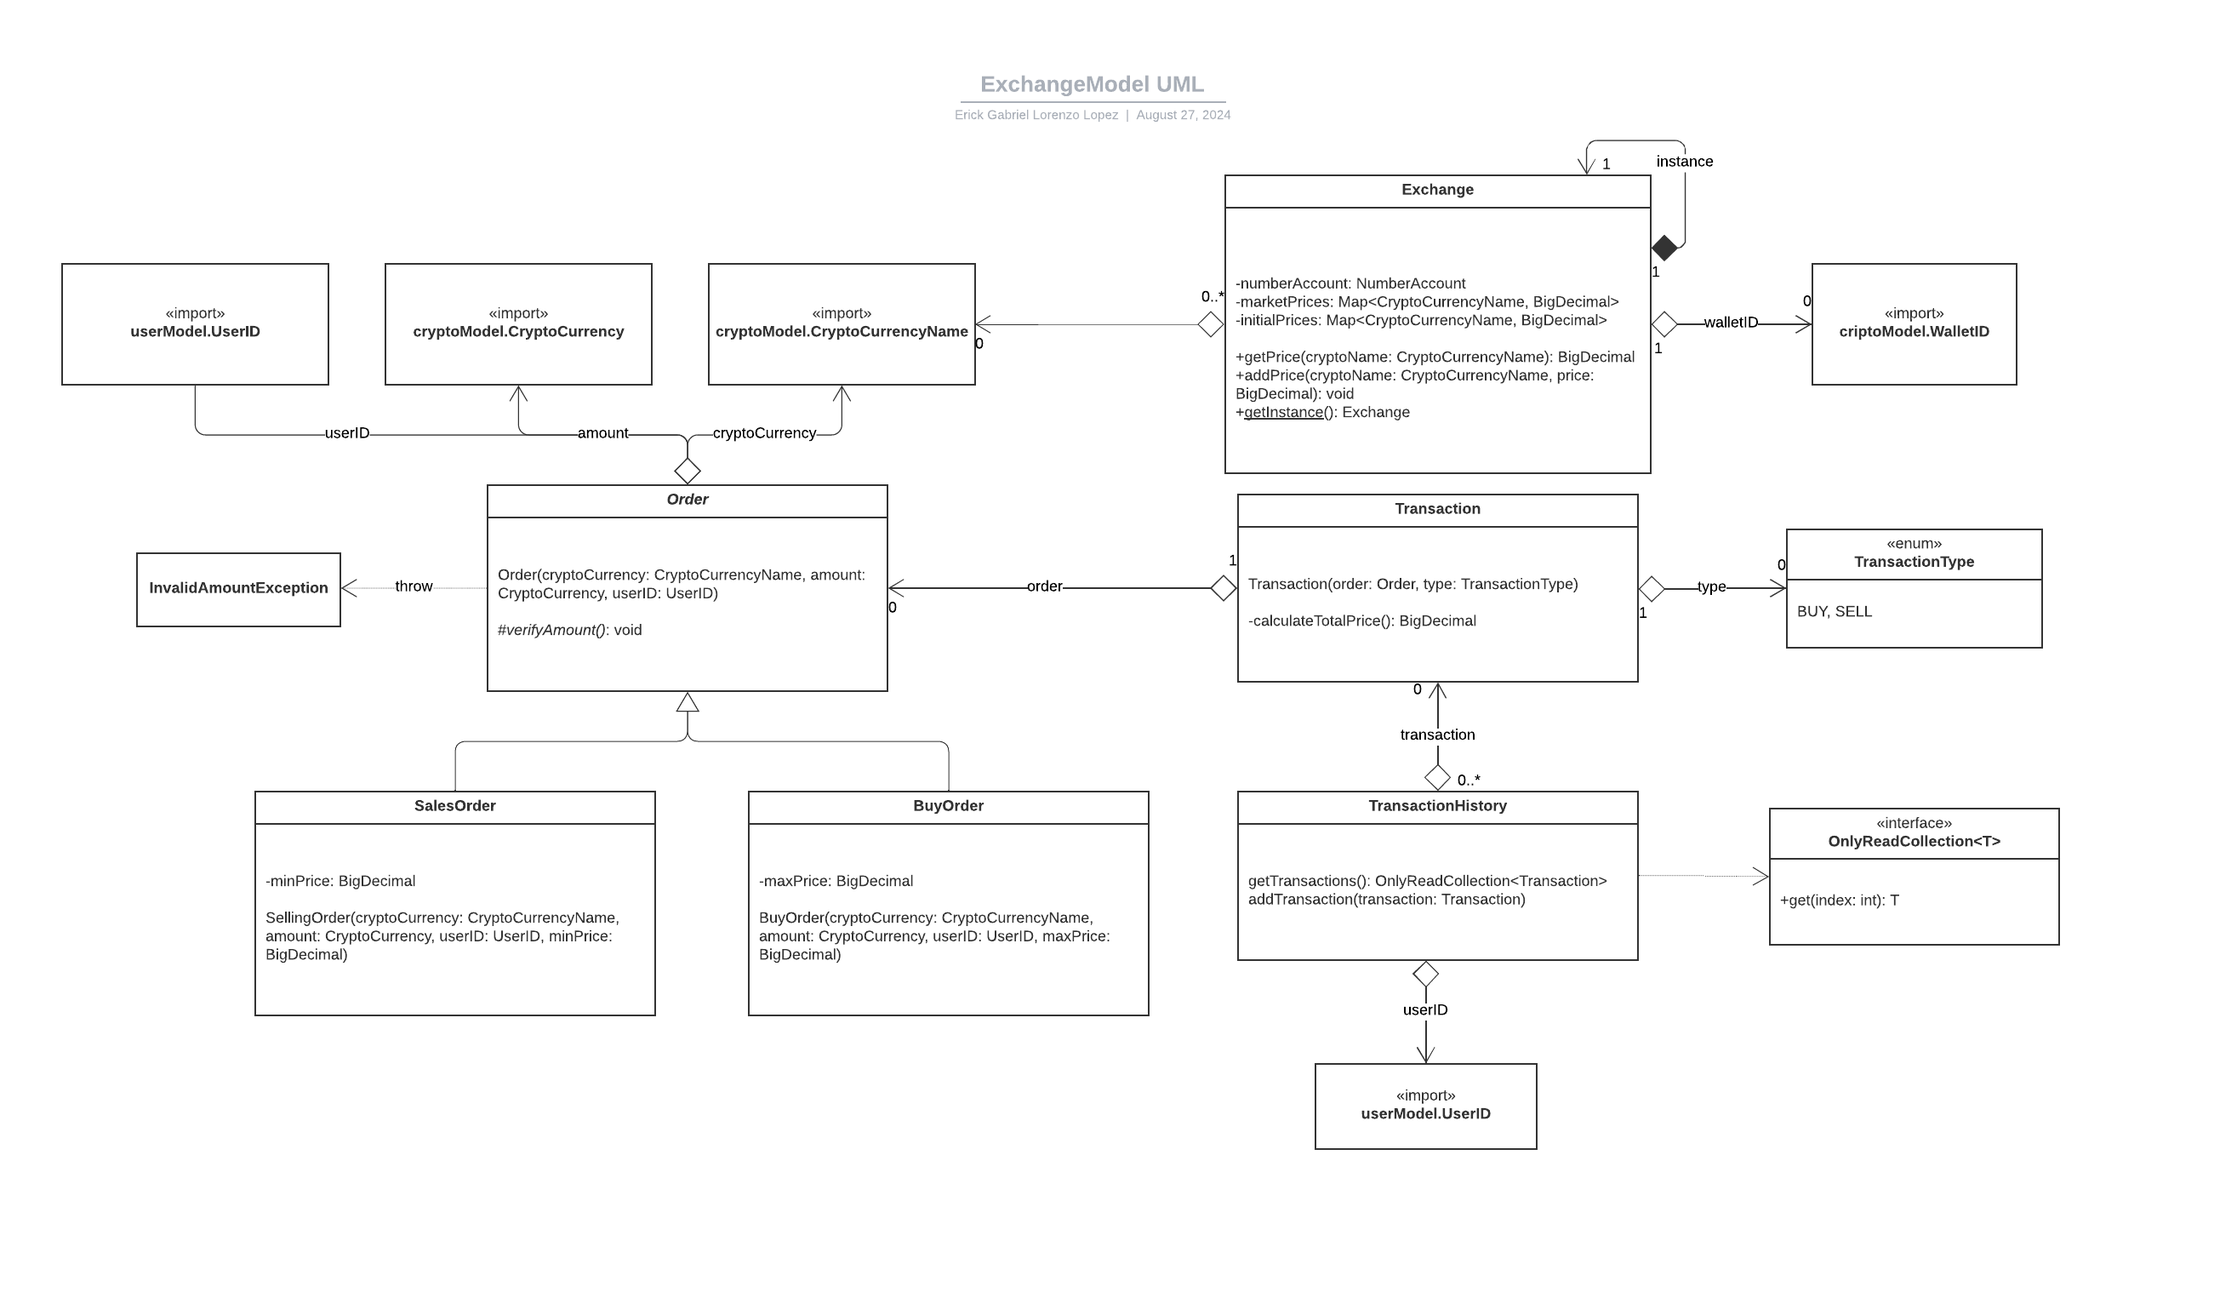
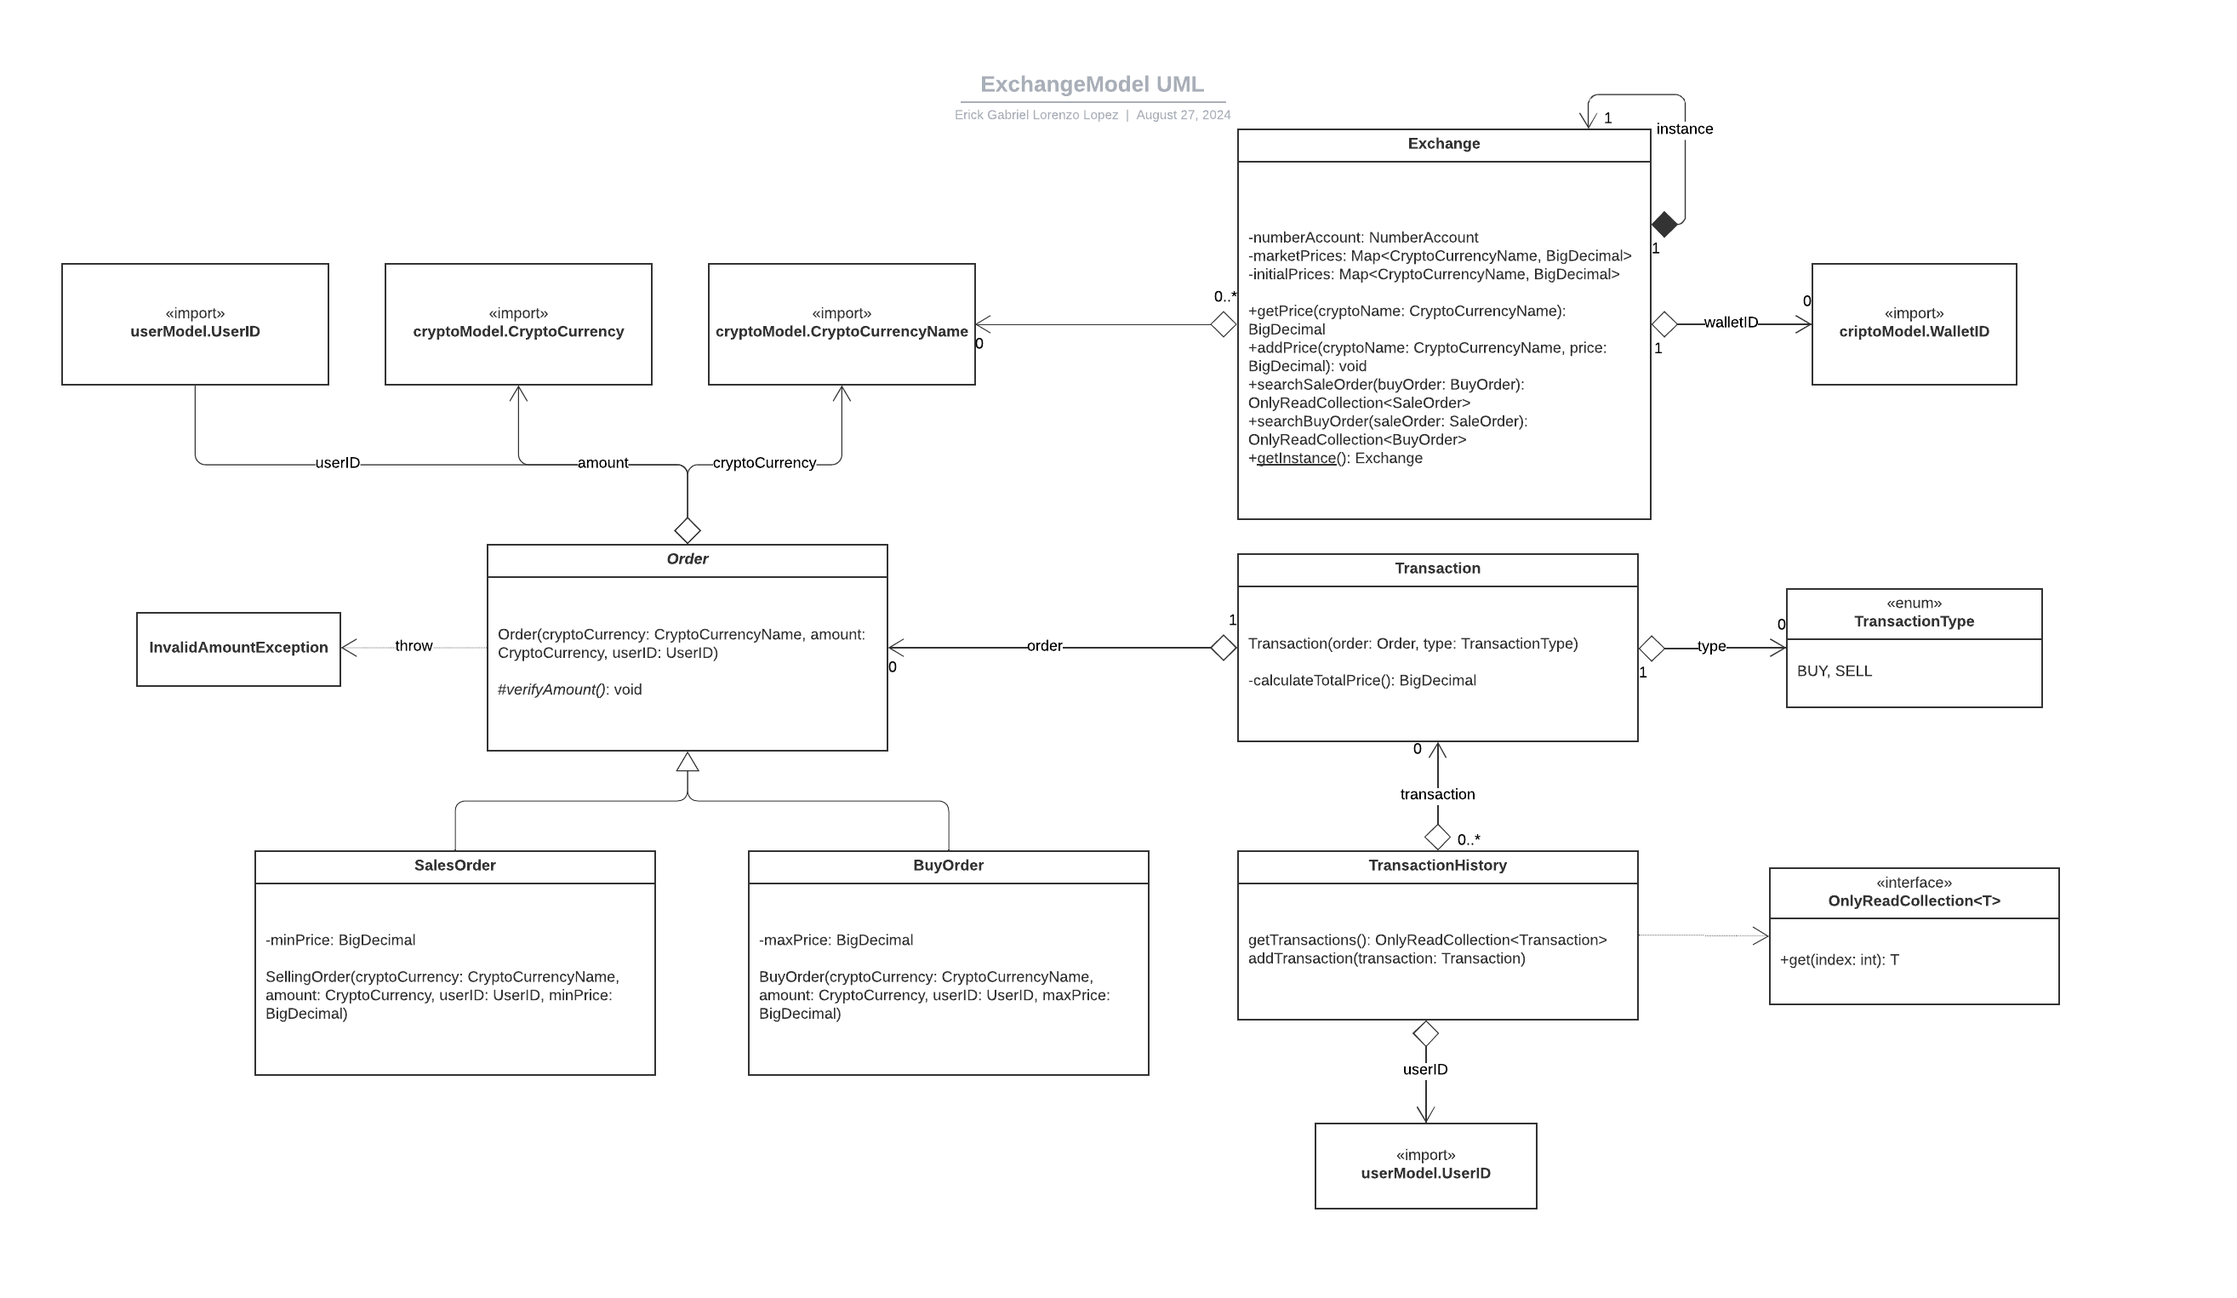
Added Exchange Service

diff --git a/criptoExchangeApplication/src/main/java/com/globant/application/services/exchange/PlaceBuyOrderUseCaseImpl.java b/criptoExchangeApplication/src/main/java/com/globant/application/services/exchange/PlaceBuyOrderUseCaseImpl.java
@@ -1,0 +1,83 @@
+package com.globant.application.services.exchange;
+
+import com.globant.application.dto.PlaceBuyOrderDTO;
+import com.globant.application.repositories.ExchangeInstance;
+import com.globant.application.repositories.Repository;
+import com.globant.application.repositories.UserRepository;
+import com.globant.application.services.wallet.BankTransactionExecuter;
+import com.globant.domain.crypto.Wallet;
+import com.globant.domain.crypto.WalletID;
+import com.globant.domain.exceptions.DomainException;
+import com.globant.domain.exceptions.NotFoundSalesOrderException;
+import com.globant.domain.exchange.BuyOrder;
+import com.globant.domain.exchange.Exchange;
+import com.globant.domain.exchange.SalesOrder;
+import com.globant.domain.exchange.Transaction;
+import com.globant.domain.exchange.TransactionHistory;
+import com.globant.domain.exchange.TransactionType;
+import com.globant.domain.user.BankAccount;
+import com.globant.domain.user.User;
+import com.globant.domain.user.UserID;
+import com.globant.domain.util.OnlyReadCollection;
+import java.math.BigDecimal;
+
+/**
+ *
+ * @author erillope
+ */
+public class PlaceBuyOrderUseCaseImpl implements PlaceBuyOrderUseCase{
+    private final UserRepository userRepository;
+    private final Repository<WalletID, Wallet> walletRepository;
+    private final Repository<String, BankAccount> bankRepository;
+    private final ExchangeInstance exchangeInstance;
+    private final Repository<UserID, TransactionHistory> transactionHistoryRepository;
+    private final BankTransactionExecuter transactionExecuter;
+
+    public PlaceBuyOrderUseCaseImpl(UserRepository userRepository, Repository<WalletID, Wallet> walletRepository, 
+            Repository<String, BankAccount> bankRepository, ExchangeInstance exchangeInstance, 
+            Repository<UserID, TransactionHistory> transactionHistoryRepository, BankTransactionExecuter transactionExecute) {
+        this.userRepository = userRepository;
+        this.walletRepository = walletRepository;
+        this.bankRepository = bankRepository;
+        this.exchangeInstance = exchangeInstance;
+        this.transactionHistoryRepository = transactionHistoryRepository;
+        this.transactionExecuter = transactionExecute;
+    }
+    
+    
+    @Override
+    public void placeBuyOrder(PlaceBuyOrderDTO dto) throws DomainException{
+        User user = userRepository.get(dto.getUserID());
+        BuyOrder buyOrder = user.generateBuyOrder(dto.getAmount(), dto.getCryptoName(), dto.getMaxPrice());
+        Exchange exchange = exchangeInstance.get();
+        OnlyReadCollection<SalesOrder> salesOrders = exchange.searchSalesOrder(buyOrder);
+        if (salesOrders.isEmpty()){throw NotFoundSalesOrderException.notFound();}
+        for (int i = 0; i < salesOrders.size(); i++){
+            trade(user, salesOrders.get(i));
+        }
+    }
+    
+    private void trade(User payer, SalesOrder order) throws DomainException{
+        User beneficiary = userRepository.get(order.getUserID());
+        Exchange exchange = exchangeInstance.get();
+        Wallet payerWallet = walletRepository.get(payer.getWalletID());
+        Wallet beneficiaryWallet = walletRepository.get(beneficiary.getWalletID());
+        BankAccount payerBankAccount = bankRepository.get(payer.getNumberAccount().getNumberAccount());
+        BankAccount beneficiaryBankAccount = bankRepository.get(beneficiary.getNumberAccount().getNumberAccount());
+        payerWallet.reduceAmount(order.getCryptoName(), order.getAmount());
+        beneficiaryWallet.addAmount(order.getCryptoName(), order.getAmount());
+        BigDecimal totalPrice = order.getAmount().getAmount().multiply(exchange.getPrice(order.getCryptoName()));
+        transactionExecuter.execute(payerBankAccount, beneficiaryBankAccount, totalPrice);
+        generateTransaction(payer, beneficiary, order);
+    }
+    
+    private void generateTransaction(User payer, User beneficiary, SalesOrder order) throws DomainException{
+        TransactionHistory payerHistory = transactionHistoryRepository.get(payer.getUserID());
+        TransactionHistory beneficiaryHistory = transactionHistoryRepository.get(beneficiary.getUserID());
+        payerHistory.addTransaction(new Transaction(order, TransactionType.BUY));
+        beneficiaryHistory.addTransaction(new Transaction(order, TransactionType.SELL));
+        transactionHistoryRepository.save(payer.getUserID(), payerHistory);
+        transactionHistoryRepository.save(beneficiary.getUserID(), beneficiaryHistory);
+    }
+    
+}

diff --git a/criptoExchangeApplication/src/main/java/com/globant/domain/exchange/Exchange.java b/criptoExchangeApplication/src/main/java/com/globant/domain/exchange/Exchange.java
@@ -8,6 +8,12 @@ import com.globant.domain.crypto.WalletID;
 import com.globant.domain.crypto.WalletUUID;
 import com.globant.domain.exceptions.InvalidNumberAccountException;
 import com.globant.domain.user.NumberAccount;
+import com.globant.domain.util.OnlyReadCollection;
+import com.globant.domain.util.OnlyReadCollectionImpl;
+import java.util.ArrayList;
+import java.util.Comparator;
+import java.util.List;
+import java.util.stream.Collectors;
 
 /**
  *
@@ -26,23 +32,61 @@ public class Exchange {
     private NumberAccount numberAccount;
     private WalletID walletID;
     private Map<CryptoCurrencyName, BigDecimal> marketPrices;
+    private final List<BuyOrder> buyOrderBook;
+    private final List<SalesOrder> salesOrderBook;
     
     private Exchange(){
         try{numberAccount = new NumberAccount("123456789");}
         catch(InvalidNumberAccountException e){e.printStackTrace();}
         walletID = new WalletUUID();
         marketPrices = new HashMap<>();
+        buyOrderBook = new ArrayList<>();
+        salesOrderBook = new ArrayList<>();
     }
+    
+    public OnlyReadCollection<SalesOrder> searchSalesOrder(BuyOrder buyOrder){
+        List<SalesOrder> orders = salesOrderBook.stream().
+                filter(o -> o.getMinPrice().compareTo(buyOrder.getMaxPrice()) <= 0).
+                collect(Collectors.toList());
+        orders.sort(Comparator.comparing(SalesOrder::getMinPrice));
+        List<SalesOrder> selectedOrders = new ArrayList<>();
+        BigDecimal amount = BigDecimal.ZERO;
+        for (SalesOrder order: orders){
+            if (amount.compareTo(buyOrder.getAmount().getAmount()) > 0){
+                return new OnlyReadCollectionImpl(selectedOrders);
+            }
+            amount.add(buyOrder.getAmount().getAmount());
+            selectedOrders.add(order);
+        }
+        return new OnlyReadCollectionImpl(new ArrayList<>());
+    }
+    
+    public OnlyReadCollection<BuyOrder> searchBuyOrder(SalesOrder salesOrder){
+        List<BuyOrder> orders = buyOrderBook.stream().
+                filter(o -> o.getMaxPrice().compareTo(salesOrder.getMinPrice()) >= 0).
+                collect(Collectors.toList());
+        orders.sort(Comparator.comparing(BuyOrder::getMaxPrice).reversed());
+        List<BuyOrder> selectedOrders = new ArrayList<>();
+        BigDecimal amount = BigDecimal.ZERO;
+        for (BuyOrder order: orders){
+            if (amount.compareTo(salesOrder.getAmount().getAmount()) > 0){
+                return new OnlyReadCollectionImpl(selectedOrders);
+            }
+            amount.add(salesOrder.getAmount().getAmount());
+            selectedOrders.add(order);
+        }
+        return new OnlyReadCollectionImpl(new ArrayList<>());
+    }
+    
+    public BigDecimal getPrice(CryptoCurrencyName cryptoName){return marketPrices.get(cryptoName);}
+    
+    public void addPrice(CryptoCurrencyName cryptoName, BigDecimal price){marketPrices.put(cryptoName, price);}
     
     public NumberAccount getNumberAccount(){return numberAccount;}
     
     public WalletID getWalletID(){return walletID;}
     
     public void setWalletID(WalletID id){walletID = id;}
-    
-    public BigDecimal getPrice(CryptoCurrencyName cryptoName){return marketPrices.get(cryptoName);}
-    
-    public void addPrice(CryptoCurrencyName cryptoName, BigDecimal price){marketPrices.put(cryptoName, price);}
     
     public static Exchange getInstance(){
         if (instance != null){return instance;}

diff --git a/criptoExchangeApplication/src/main/java/com/globant/application/dto/PlaceBuyOrderDTO.java b/criptoExchangeApplication/src/main/java/com/globant/application/dto/PlaceBuyOrderDTO.java
@@ -1,7 +1,9 @@
 package com.globant.application.dto;
 
+import com.globant.domain.crypto.CryptoCurrency;
 import java.math.BigDecimal;
 import com.globant.domain.crypto.CryptoCurrencyName;
+import com.globant.domain.user.UserID;
 
 /**
  *
@@ -9,23 +11,24 @@ import com.globant.domain.crypto.CryptoCurrencyName;
  */
 public class PlaceBuyOrderDTO {
     private final CryptoCurrencyName cryptoName;
-    private final BigDecimal amount;
-    private final String UserID;
+    private final CryptoCurrency amount;
+    private UserID userID;
     private final BigDecimal maxPrice;
 
-    public PlaceBuyOrderDTO(CryptoCurrencyName cryptoName, BigDecimal amount, String UserID, BigDecimal maxPrice) {
+    public PlaceBuyOrderDTO(CryptoCurrencyName cryptoName, CryptoCurrency amount, BigDecimal maxPrice) {
         this.cryptoName = cryptoName;
         this.amount = amount;
-        this.UserID = UserID;
         this.maxPrice = maxPrice;
     }
     
     public CryptoCurrencyName getCryptoName(){return cryptoName;}
 
-    public BigDecimal getAmount(){return amount;}
+    public CryptoCurrency getAmount(){return amount;}
 
-    public String getUserID(){return UserID;}
+    public UserID getUserID(){return userID;}
     
     public BigDecimal getMaxPrice(){return maxPrice;}
+    
+    public void setUserID(UserID id){userID = id;}
     
 }

diff --git a/criptoExchangeApplication/src/main/java/com/globant/application/services/exchange/ExchangeService.java b/criptoExchangeApplication/src/main/java/com/globant/application/services/exchange/ExchangeService.java
@@ -10,9 +10,9 @@ import com.globant.domain.exceptions.DomainException;
  * @author erillope
  */
 public class ExchangeService implements ExchangeCryptoCurrencyUseCase, PlaceBuyOrderUseCase, PlaceSaleOrderUseCase{
-    private ExchangeCryptoCurrencyUseCase exchangeUseCase;
-    private PlaceBuyOrderUseCase placeBuyOrderUseCase;
-    private PlaceSaleOrderUseCase placeSaleOrderUseCase;
+    private final ExchangeCryptoCurrencyUseCase exchangeUseCase;
+    private final PlaceBuyOrderUseCase placeBuyOrderUseCase;
+    private final PlaceSaleOrderUseCase placeSaleOrderUseCase;
 
     public ExchangeService(ExchangeCryptoCurrencyUseCase exchangeUseCase, PlaceBuyOrderUseCase placeBuyOrderUseCase, PlaceSaleOrderUseCase placeSaleOrderUseCase) {
         this.exchangeUseCase = exchangeUseCase;
@@ -26,12 +26,12 @@ public class ExchangeService implements ExchangeCryptoCurrencyUseCase, PlaceBuyO
     }
 
     @Override
-    public void placeBuyOrder(PlaceBuyOrderDTO dto) {
+    public void placeBuyOrder(PlaceBuyOrderDTO dto) throws DomainException{
         this.placeBuyOrderUseCase.placeBuyOrder(dto);
     }
 
     @Override
-    public void placeSaleOrder(PlaceSaleOrderDTO dto) {
+    public void placeSaleOrder(PlaceSaleOrderDTO dto) throws DomainException{
         this.placeSaleOrderUseCase.placeSaleOrder(dto);
     }
     

diff --git a/criptoExchangeApplication/src/main/java/com/globant/domain/exchange/OrderID.java b/criptoExchangeApplication/src/main/java/com/globant/domain/exchange/OrderID.java
@@ -1,0 +1,44 @@
+package com.globant.domain.exchange;
+
+import java.io.Serializable;
+import java.util.Objects;
+
+/**
+ *
+ * @author erillope
+ */
+public abstract class OrderID implements Serializable{
+    private final String id;
+    
+    public OrderID(){
+        this.id = generate();
+    }
+    
+    public String getID(){return id;}
+    
+    protected abstract String generate();
+
+    @Override
+    public int hashCode() {
+        int hash = 7;
+        hash = 11 * hash + Objects.hashCode(this.id);
+        return hash;
+    }
+
+    @Override
+    public boolean equals(Object obj) {
+        if (this == obj) {
+            return true;
+        }
+        if (obj == null) {
+            return false;
+        }
+        if (getClass() != obj.getClass()) {
+            return false;
+        }
+        final OrderID other = (OrderID) obj;
+        return Objects.equals(this.id, other.id);
+    }
+
+    
+}

diff --git a/criptoExchangeApplication/src/main/java/com/globant/domain/exchange/SalesOrder.java b/criptoExchangeApplication/src/main/java/com/globant/domain/exchange/SalesOrder.java
@@ -19,10 +19,14 @@ public class SalesOrder extends Order{
     }
     
     public BigDecimal getMinPrice(){return minPrice;}
+    
 
     @Override
     protected void verifyAmount() throws InvalidAmountException {
-        //TODO
+        Exchange exchange = Exchange.getInstance();
+        BigDecimal price = exchange.getPrice(getCryptoName());
+        BigDecimal totalPrice = price.multiply(getAmount().getAmount());
+        if (totalPrice.compareTo(minPrice) < 0){throw InvalidAmountException.invalidAmount();}
     }
 
 

diff --git a/criptoExchangeApplication/src/main/java/com/globant/domain/exchange/Order.java b/criptoExchangeApplication/src/main/java/com/globant/domain/exchange/Order.java
@@ -11,11 +11,13 @@ import java.io.Serializable;
  * @author erillope
  */
 public abstract class Order implements Serializable{
+    private final OrderID id;
     private final CryptoCurrency amount;
     private final CryptoCurrencyName cryptoName;
     private final UserID userID;
     
     public Order(CryptoCurrency amount, CryptoCurrencyName cryptoName, UserID userID){
+        id = new OrderUUID();
         this.amount = amount;
         this.cryptoName = cryptoName;
         this.userID = userID;

diff --git a/criptoExchangeApplication/src/main/java/com/globant/domain/exchange/BuyOrder.java b/criptoExchangeApplication/src/main/java/com/globant/domain/exchange/BuyOrder.java
@@ -23,5 +23,9 @@ public class BuyOrder extends Order{
 
     @Override
     protected void verifyAmount() throws InvalidAmountException {
+         Exchange exchange = Exchange.getInstance();
+         BigDecimal price = exchange.getPrice(getCryptoName());
+         BigDecimal totalPrice = price.multiply(getAmount().getAmount());
+         if (totalPrice.compareTo(maxPrice) > 0){throw InvalidAmountException.invalidAmount();}
     }
 }

diff --git a/criptoExchangeApplication/src/main/java/com/globant/application/services/exchange/PlaceSaleOrderUseCase.java b/criptoExchangeApplication/src/main/java/com/globant/application/services/exchange/PlaceSaleOrderUseCase.java
@@ -1,11 +1,12 @@
 package com.globant.application.services.exchange;
 
 import com.globant.application.dto.PlaceSaleOrderDTO;
+import com.globant.domain.exceptions.DomainException;
 
 /**
  *
  * @author erillope
  */
 public interface PlaceSaleOrderUseCase {
-    public void placeSaleOrder(PlaceSaleOrderDTO dto);
+    public void placeSaleOrder(PlaceSaleOrderDTO dto) throws DomainException;
 }

diff --git a/criptoExchangeApplication/src/main/java/com/globant/application/services/exchange/PlaceBuyOrderUseCase.java b/criptoExchangeApplication/src/main/java/com/globant/application/services/exchange/PlaceBuyOrderUseCase.java
@@ -1,11 +1,12 @@
 package com.globant.application.services.exchange;
 
 import com.globant.application.dto.PlaceBuyOrderDTO;
+import com.globant.domain.exceptions.DomainException;
 
 /**
  *
  * @author erillope
  */
 public interface PlaceBuyOrderUseCase {
-    public void placeBuyOrder(PlaceBuyOrderDTO dto);
+    public void placeBuyOrder(PlaceBuyOrderDTO dto) throws DomainException;
 }

diff --git a/criptoExchangeApplication/src/main/java/com/globant/domain/exceptions/NotFoundSalesOrderException.java b/criptoExchangeApplication/src/main/java/com/globant/domain/exceptions/NotFoundSalesOrderException.java
@@ -1,0 +1,14 @@
+package com.globant.domain.exceptions;
+
+/**
+ *
+ * @author erillope
+ */
+public class NotFoundSalesOrderException extends ApplicationException{
+    public NotFoundSalesOrderException(String msg) {
+        super(msg);
+    }
+    
+    public static NotFoundSalesOrderException notFound()
+    {return new NotFoundSalesOrderException("NOT FOUND SALES ORDER");}
+}

diff --git a/criptoExchangeApplication/src/main/java/com/globant/domain/util/OnlyReadCollectionImpl.java b/criptoExchangeApplication/src/main/java/com/globant/domain/util/OnlyReadCollectionImpl.java
@@ -17,5 +17,15 @@ public class OnlyReadCollectionImpl<T> implements OnlyReadCollection<T>{
     public T get(int index){
         return collection.get(index);
     }
+
+    @Override
+    public boolean isEmpty() {
+        return collection.isEmpty();
+    }
+
+    @Override
+    public int size() {
+        return collection.size();
+    }
     
 }
